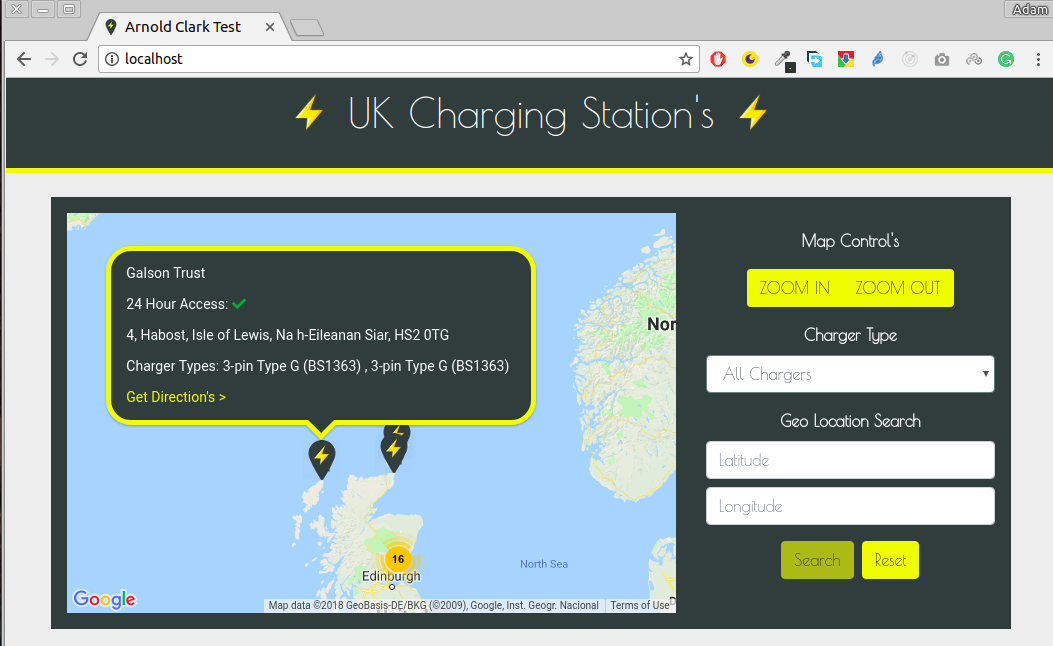
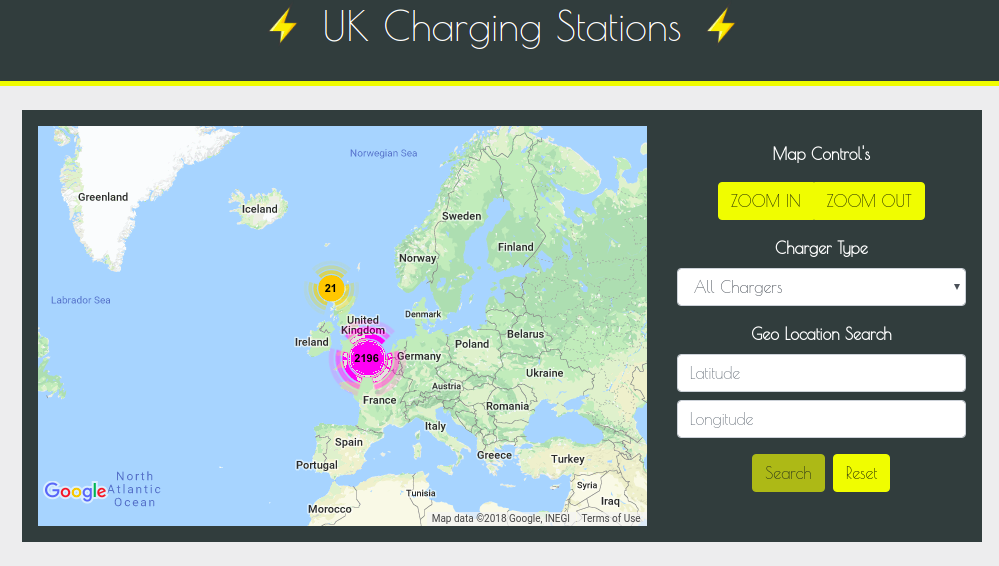
Remove Branding

diff --git a/cypress/integration/app.spec.js b/cypress/integration/app.spec.js
@@ -1,4 +1,4 @@
-describe('Arnold Clark Code Challenge e2e Tests', () => {
+describe('UK Car Charging Map e2e Tests', () => {
   before(function() {
     cy.server();
     cy.route('data').as('getData');
@@ -7,7 +7,7 @@ describe('Arnold Clark Code Challenge e2e Tests', () => {
   });
 
   it('Application has the correct title!', () => {
-    cy.title().should('include', 'Arnold Clark Test');
+    cy.title().should('include', 'UK Car Charging Map');
   });
 
   it('Application has the correct h1 tag!', () => {

diff --git a/src/index.html b/src/index.html
@@ -2,7 +2,7 @@
 <html lang="en">
 <head>
   <meta charset="utf-8">
-  <title>Arnold Clark Test</title>
+  <title>UK Car Charging Map</title>
   <base href="/">
 
   <meta name="viewport" content="width=device-width, initial-scale=1">

diff --git a/src/styles.scss b/src/styles.scss
@@ -19,8 +19,4 @@ body {
   height:50px;
   box-sizing:border-box;
   margin-bottom: -2.5px;
-  background: url('./assets/logo.png') no-repeat;
-  div {
-    display: none;
-  }
 }
